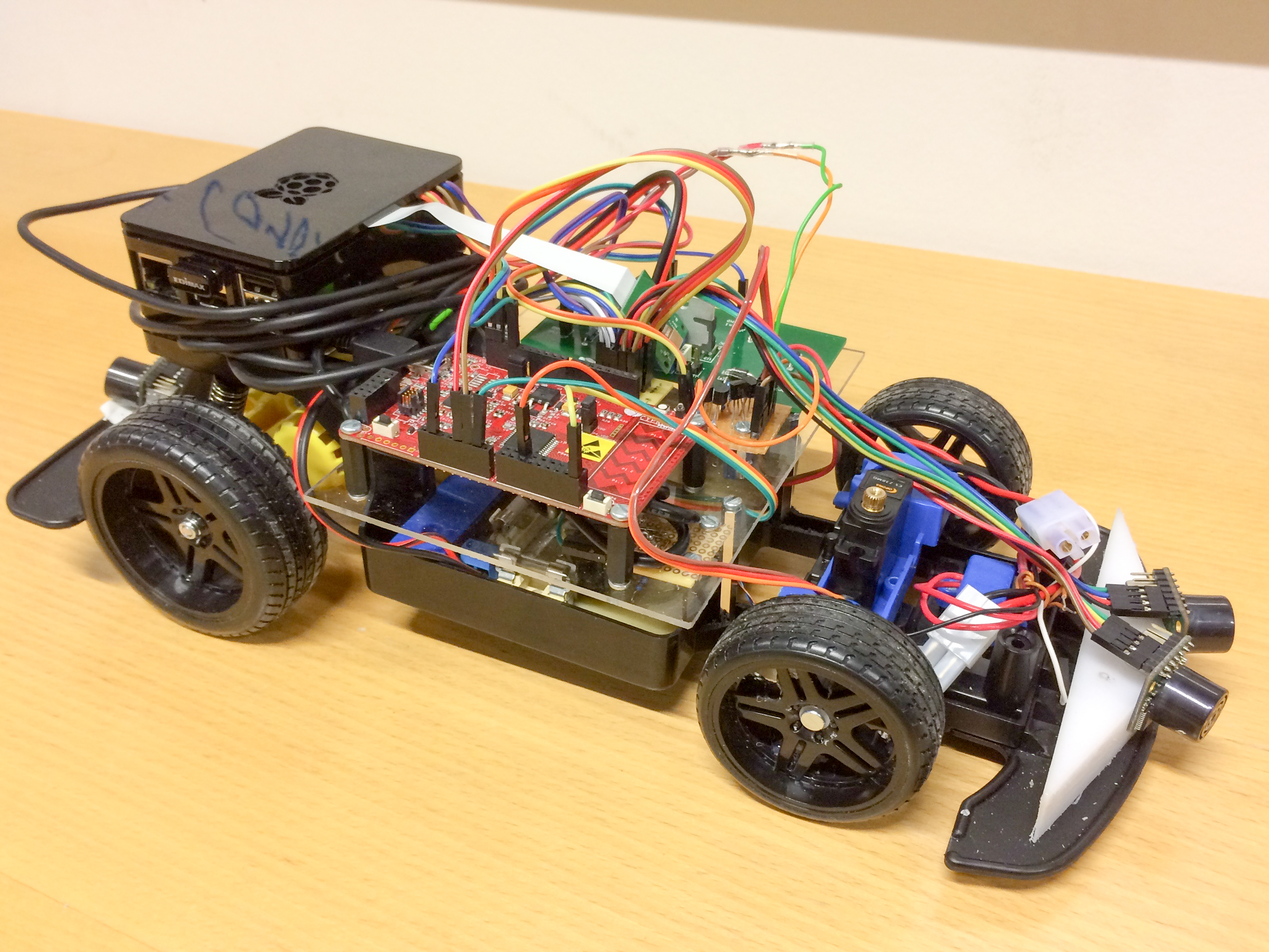
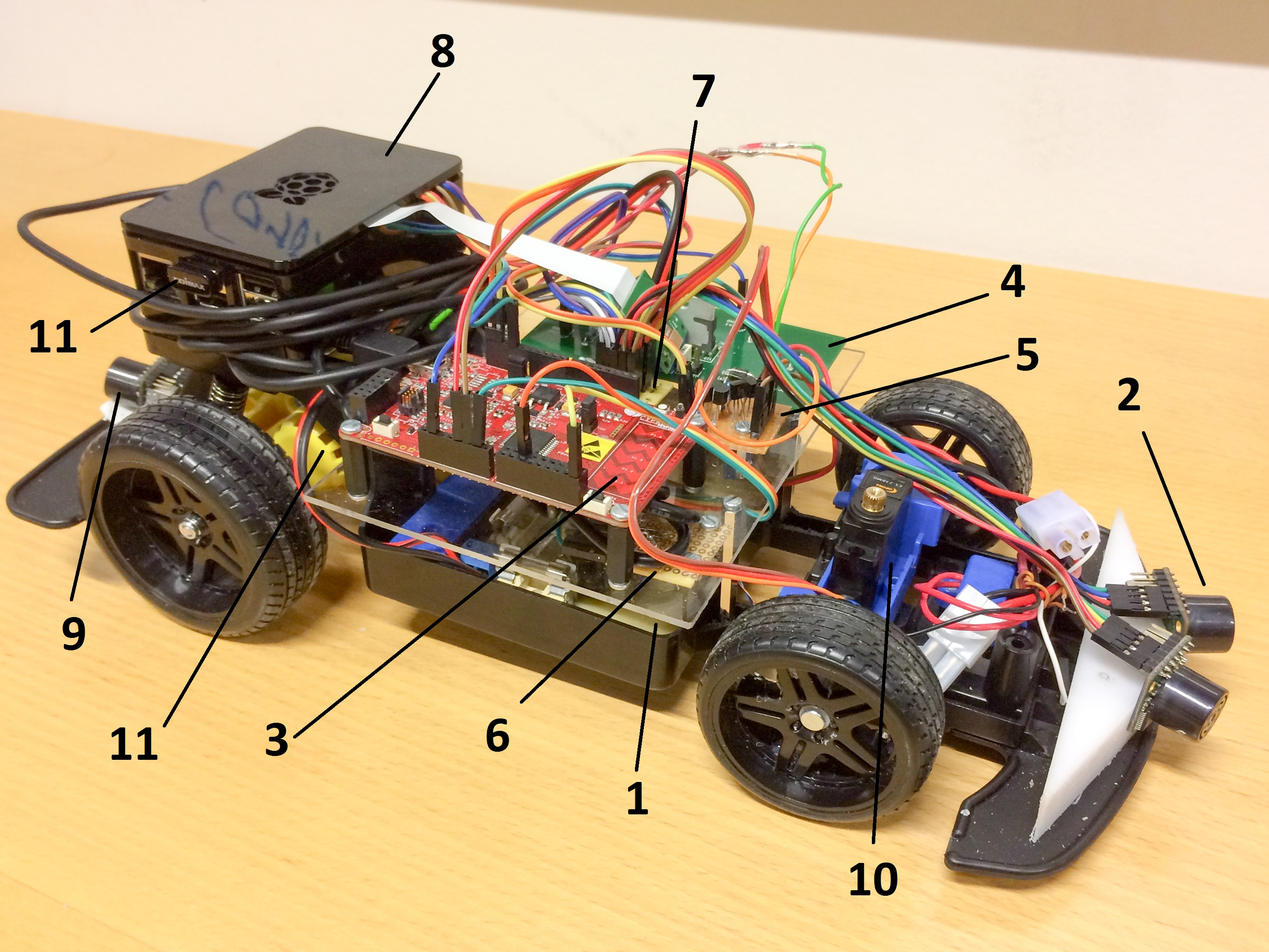
Added "mekanisk montering"

diff --git a/LaTeX/projektdokumentation/hwimplementering/mekanisk_montering/mekanisk_montering.tex b/LaTeX/projektdokumentation/hwimplementering/mekanisk_montering/mekanisk_montering.tex
@@ -1,2 +1,33 @@
 \section{Mekanisk montering}
 
+Der er gjort en dyd i at montere enhederne og styreenhederne stabilt og solidt så de ikke rasler af når bilen kører. Ligeledes er der anvendt et etagesystem bestående af bl.a. plexiglas og nylonfødder, så der ikke kan opstå kortslutninger. Ved montering af bilens afstandssensorer er det valgt at placere dem så tæt ved hinanden som muligt for at undgå en blind vinkel lige foran og lige bagved bilen. På figur \ref{fig:billede_af_bil} ses bilen som og en forklaring af hvad de enkelte enheder er. Det skal lige noteres at biles batteri ikke er monteret på bilen på dette billede.\\
+Ved projektforløbets afslutning var det desværre ikke lykkedes at få tilkoblet servomotoren til forhjulene, så den er blot placeret ved forhjulene, så det stadig er muligt at se at den reagerer på brugerinput.
+
+\begin{figure}[h]
+\centering
+\includegraphics[width=\textwidth -1cm]{../fig/billeder/billede_af_bil.jpg}
+\caption{Bilen med montering af komponenter.}
+\label{fig:billede_af_bil}
+\end{figure}
+
+\begin{table}[h]
+\begin{tabularx}{\textwidth}{Z Z}
+\begin{packed_enum}
+\item PSU
+\item Forreste afstandssensorer
+\item PSoC
+\item H-Bro
+\item Buffer til servomotor
+\item Tachometer
+\end{packed_enum}
+&
+\begin{packed_enum}
+\setcounter{enumi}{6}
+\item I2C-bus
+\item Pi
+\item Bageste afstandssensorer
+\item Servomotor
+\item Wi-Fi dongle
+\end{packed_enum}
+\end{tabularx}
+\end{table}

diff --git a/LaTeX/projektdokumentation/hwimplementering/hwimpl.tex b/LaTeX/projektdokumentation/hwimplementering/hwimpl.tex
@@ -6,13 +6,13 @@
 	\hline
 	Dato			& Version			& Initialer 		& Ændring										\\ \hline
 	09. December	& 1 				& KT mf.	 		& Først udkast			\\ \hline
-	xx. December	& 2 				& 			 		& 						\\ \hline
+	11. December	& 2 				& PKP		 		& Tilføjet afsnit om mekanisk montering.	\\\hline
 	xx. December	& 3 				& 			 		& 						\\ \hline
 	\end{tabularx}
 \end{table}
 \clearpage
 
 \input{hwimplementering/psu/psu}\clearpage
-\input{hwimplementering/motor/motor_driver}
-\input{hwimplementering/steering/servo_steering}
-\input{hwimplementering/mekanisk_montering/mekanisk_montering}
+\input{hwimplementering/motor/motor_driver}\clearpage
+\input{hwimplementering/steering/servo_steering}\clearpage
+\input{hwimplementering/mekanisk_montering/mekanisk_montering}\clearpage
